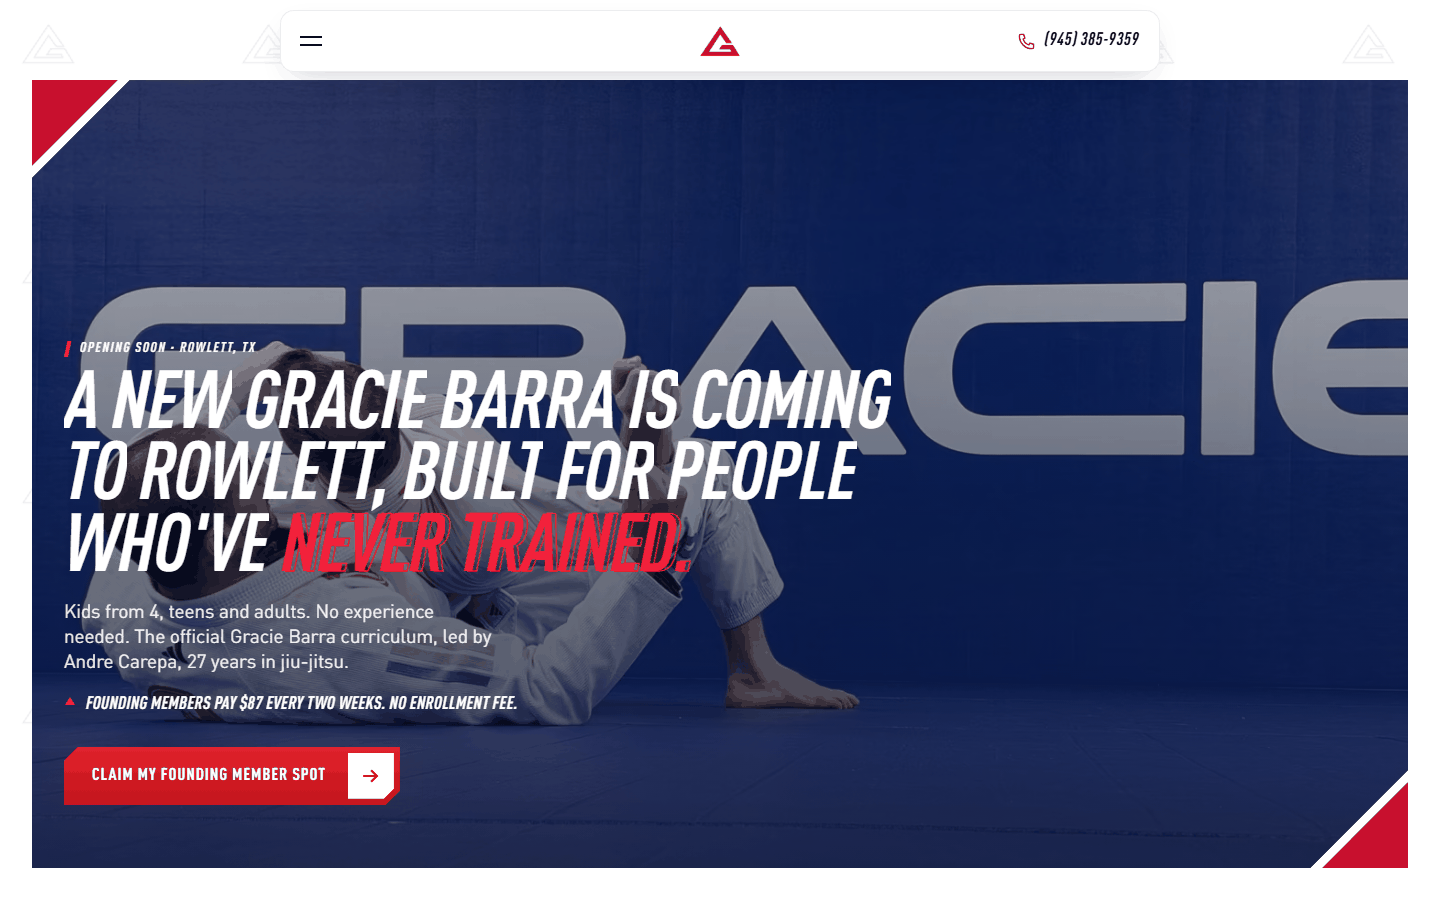
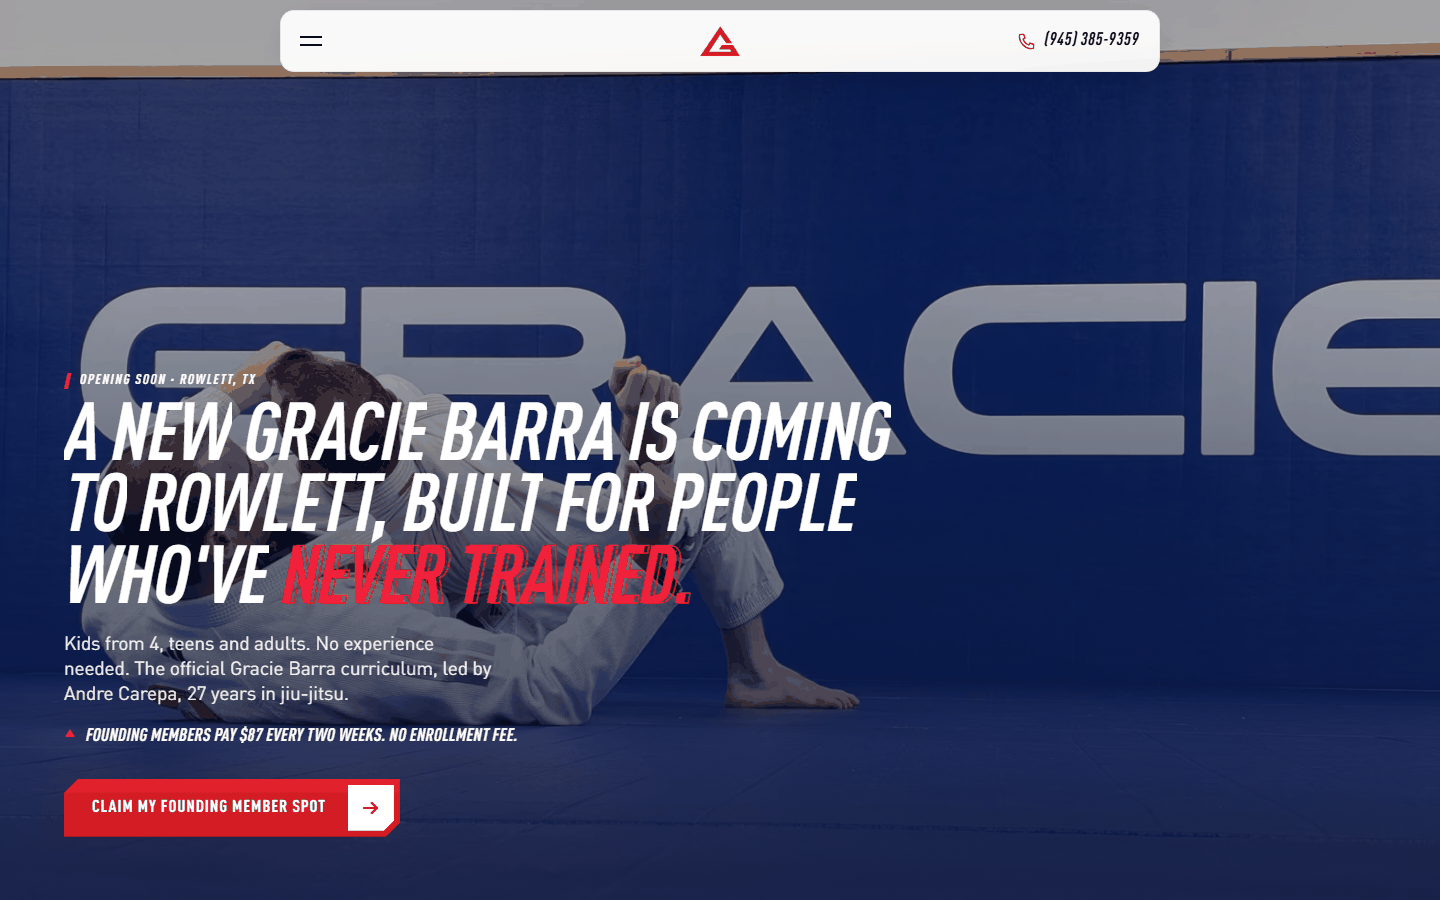
feat(hero): full-bleed image, no card clip, no white margin, no bites

Changed region(s): [[0.0, 0.0, 1.0, 1.0]]

diff --git a/src/styles/sections.css b/src/styles/sections.css
@@ -228,19 +228,15 @@ html.bk-open .nav {
   }
 }
 
-/* ════════ HERO — o ingresso no filme (duas cenas sobre o mesmo filme) ════════
-   O filme é sticky. --k (1 → 0) recorta o card: recuos do quadro de 1920,
-   as duas mordidas e os triângulos encolhem juntos até o filme tomar a tela.
-   --p (0 → 1) = progresso da abertura. --s = entrada da cena 2. */
+/* ════════ HERO — a foto de ponta a ponta, duas cenas sobre o mesmo filme ════════
+   Decisão do Adryan (9 out 2026): sem card, sem margem branca, sem mordidas —
+   a imagem preenche o hero inteiro, por trás da nav. O filme é sticky.
+   --k (1 → 0) assenta o filme (escala 1,1 → 1) e apaga o véu da cena 1;
+   --p (0 → 1) desce o marinho da cena 2; --s = entrada da frase da cena 2. */
 .hero {
   --k: 1;
   --p: 0;
   --s: 0;
-  --it: var(--nav-h);
-  --ix: max(calc(var(--gutter) * 0.5), calc((100% - var(--max)) / 2 + var(--gutter) * 0.5));
-  --ib: calc(var(--gutter) * 0.5);
-  --bite: clamp(64px, calc(var(--u) * 6.8), 132px);
-  --sv: 0px;
   --hp: clamp(28px, calc(var(--u) * 4.4), 84px);
   position: relative;
   color: var(--paper);
@@ -248,10 +244,6 @@ html.bk-open .nav {
 }
 @media (max-width: 639px) {
   .hero {
-    --ix: 8px;
-    --ib: 8px;
-    --bite: clamp(56px, 16vw, 80px);
-    --sv: calc(100lvh - 100svh);
     --hp: 20px;
   }
 }
@@ -264,22 +256,10 @@ html.bk-open .nav {
   pointer-events: none;
 }
 .hero__media {
-  --t: calc(var(--k) * var(--it));
-  --x: calc(var(--k) * var(--ix));
-  --b: calc(var(--k) * (var(--ib) + var(--sv)));
-  --m: calc(var(--k) * var(--bite));
   position: absolute;
   inset: 0;
   overflow: hidden;
   background: var(--night);
-  clip-path: polygon(
-    calc(var(--x) + var(--m)) var(--t),
-    calc(100% - var(--x)) var(--t),
-    calc(100% - var(--x)) calc(100% - var(--b) - var(--m)),
-    calc(100% - var(--x) - var(--m)) calc(100% - var(--b)),
-    var(--x) calc(100% - var(--b)),
-    var(--x) calc(var(--t) + var(--m))
-  );
 }
 .hero__poster,
 .hero__poster img,
@@ -318,34 +298,6 @@ html.bk-open .nav {
   background: radial-gradient(ellipse at 50% 50%, rgb(var(--navy-rgb) / 0.55), rgb(var(--navy-rgb) / 0.82) 80%);
   opacity: var(--p);
 }
-.hero__bite {
-  position: absolute;
-  width: calc(var(--bite) - 12px);
-  height: calc(var(--bite) - 12px);
-  background: var(--red);
-}
-.hero__bite--br {
-  right: var(--ix);
-  bottom: calc(var(--ib) + var(--sv));
-  clip-path: polygon(100% 0, 100% 100%, 0 100%);
-  transform-origin: 100% 100%;
-  transform: translate(calc((1 - var(--k)) * var(--ix)), calc((1 - var(--k)) * (var(--ib) + var(--sv)))) scale(var(--k));
-}
-.hero__bite--tl {
-  left: var(--ix);
-  top: var(--it);
-  clip-path: polygon(0 0, 100% 0, 0 100%);
-  transform-origin: 0 0;
-  transform: translate(calc((var(--k) - 1) * var(--ix)), calc((var(--k) - 1) * var(--it))) scale(var(--k));
-}
-html.motion .hero__bite {
-  animation: bite-in 0.9s var(--ease) 0.9s both;
-}
-@keyframes bite-in {
-  from {
-    scale: 0;
-  }
-}
 .hero__scene {
   position: relative;
   z-index: 1;
@@ -355,12 +307,11 @@ html.motion .hero__bite {
 .hero__scene--card {
   margin-top: min(-600px, -100lvh);
   align-items: flex-end;
-  padding: calc(var(--nav-h) + var(--bite)) 0 calc(var(--ib) + var(--hp));
+  padding: calc(var(--nav-h) + 48px) 0 var(--hp);
 }
 .hero__copy {
   position: relative;
-  /* a borda do card fica meia margem para fora da grade; o texto entra --hp */
-  padding-inline: calc(var(--gutter) * 0.5 + var(--hp));
+  padding-inline: max(var(--gutter), var(--hp));
   /* recua e some enquanto o card abre (depois do LCP: pode mexer na opacidade) */
   transform: translateY(calc(var(--p) * -80px));
   opacity: clamp(0, 1 - var(--p) * 1.8, 1);
@@ -414,7 +365,7 @@ html.motion .hero__bite {
 }
 @media (max-width: 639px) {
   .hero__copy {
-    padding-inline: calc(var(--ix) + var(--hp));
+    padding-inline: var(--gutter);
   }
 }
 /* cena 2: centralizada (rola normalmente — nada trava) */

diff --git a/src/components/sections/Hero.tsx b/src/components/sections/Hero.tsx
@@ -1,14 +1,13 @@
 /* ════════════════════════════════════════════════════════════════════
    Hero — o card no filme (gramática da Lindale v2, leitura da Rowlett).
 
-   CENA 1 · o card: o poster (ou o b-roll, quando chegar) num card de
-   cantos retos sob a nav, com as duas mordidas (triângulo GB, topo-esq.
-   e base-dir.). O texto vai DIRETO sobre o filme, embaixo à esquerda,
+   CENA 1 · o poster (ou o b-roll, quando chegar) preenche o hero inteiro,
+   de ponta a ponta e por trás da nav — sem card, sem margem branca, sem
+   mordidas (decisão do Adryan). O texto vai DIRETO sobre o filme, embaixo à esquerda,
    sobre o véu marinho: eyebrow, H1 ("never trained." em vermelho vivo com
    duplicado), lead, a linha da oferta e o CTA. Decisões do Adryan em
    9 out 2026: sem placa/ingresso branco, sem micro-itens, sem carimbo.
-   CENA 2 · rolando, o card ABRE até a tela (--k 1 → 0: recuos, mordidas
-   e triângulos encolhem juntos), o marinho desce e a frase da oferta
+   CENA 2 · rolando, o filme assenta (escala 1,1 → 1), o marinho desce e a frase da oferta
    ("Join before we open." pequena; "Pay less than everyone / who joins
    after." grandes) SOBE DE BAIXO, linha a linha, com o botão apontando
    para a oferta.
@@ -88,7 +87,7 @@ export function Hero() {
 
   return (
     <section ref={root} id="top" className="hero" aria-labelledby="hero-title">
-      {/* O filme das duas cenas: sticky, recortado pelo card (--k) */}
+      {/* O filme das duas cenas: sticky, de ponta a ponta */}
       <div className="hero__sticky" aria-hidden="true">
         <div className="hero__media">
           <Pic name="film-m" alt="" priority sizes="100vw" className="hero__poster" art={{ name: 'film', media: '(min-width: 768px)', sizes: '100vw' }} />
@@ -96,8 +95,6 @@ export function Hero() {
           <span className="hero__veil" />
           <span className="hero__deep" />
         </div>
-        <span className="hero__bite hero__bite--tl" />
-        <span className="hero__bite hero__bite--br" />
       </div>
 
       {/* CENA 1 · o texto direto sobre o filme, embaixo à esquerda */}

diff --git a/public/memory/design-decisions.md b/public/memory/design-decisions.md
@@ -115,3 +115,4 @@ A tabela viva é a §20 do `prd-GBR-001.md` (23 itens). Resumo do que trava o mo
 - **A oferta vira UM ingresso** na largura da seção (pedido do Adryan: são só dois grupos, não três cartões no padrão da Collective). Corpo marinho com duas metades e o picote entre elas (tracejado + dois furos). Metade I: card vermelho com $87, no enrollment fee, uniforme incluído, vagas e o botão; a comparação "After opening" no pé. Metade II (o canhoto): **nítida, sem borrão nem cadeado** — o Adryan apontou que borrar um card com o mesmo preço não diz nada; o número grande do canhoto é o perk ("50% off · the Gracie Barra uniform") com "Same $87 every two weeks · No enrollment fee" embaixo, e no pé "Opens when The First 50 is full" + a pendência do limite de vagas. No celular as metades empilham e o picote fica horizontal. O carimbo de dias morde o card I quando houver data; sem data, vira pendência no pé.
 - **Canhoto II revisto pelo Adryan:** volta a ser o MESMO quadrado do card I (as duas metades em subgrid no desktop, então os dois cards têm a mesma altura), em `--navy-2` (marinho um degrau mais claro, novo token), com o conteúdo borrado a 6px e "Coming soon" + cadeado no centro. O texto inteiro vai em `sr-only`; o borrado e o selo do centro são `aria-hidden`.
 - **Nav (pedido do Adryan):** sai o nome escrito ao lado do selo e sai o botão "Claim my spot"; no lugar do botão fica o telefone como ação escrita, com o número sempre visível (inclusive no celular), em Cn itálico e ícone vermelho. O tamanho `compact` do `Cta` saiu junto (só a nav usava). O CTA continua no hero, em cada seção e na barra fixa do celular.
+- **Hero de ponta a ponta (pedido do Adryan):** sai o card no filme — sem recorte, sem margem branca, sem as mordidas triangulares; a foto preenche o hero inteiro, por trás da nav. A rolagem ainda assenta o filme (1,1 → 1), apaga o véu da cena 1 e desce o marinho da cena 2. É um desvio consciente do momento de assinatura do PRD §8.7 ("o card que abre até virar a tela").
